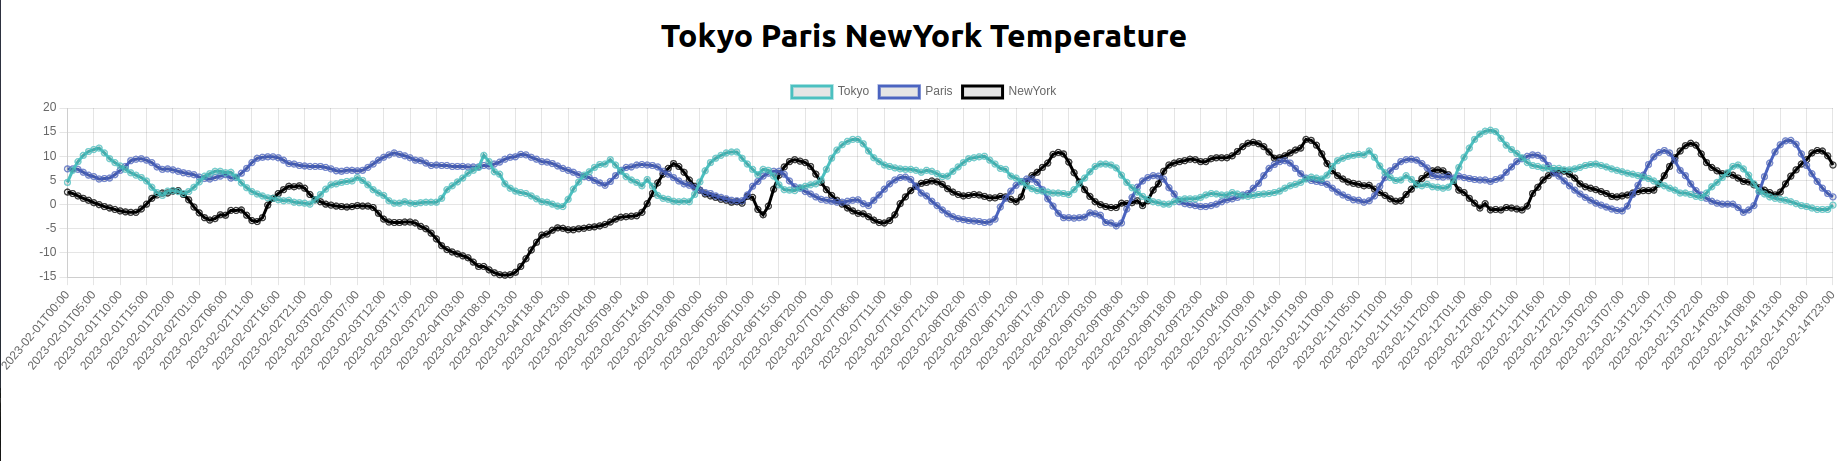
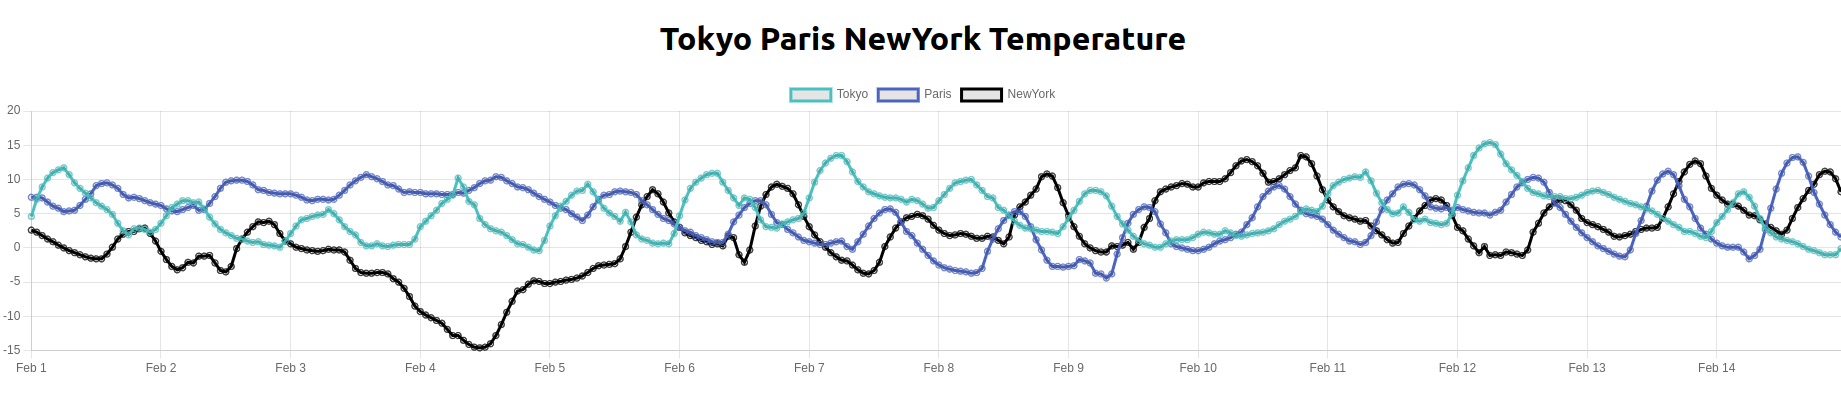
x軸を日付用に設定

diff --git a/src/components/temperatureLine.tsx b/src/components/temperatureLine.tsx
@@ -2,15 +2,18 @@ import React from "react"
 import { Line } from "react-chartjs-2"
 import {
   Chart as ChartJS,
-  CategoryScale,
+  TimeScale,
   LinearScale,
   PointElement,
   LineElement,
   Title,
   Tooltip,
   Legend,
+  ChartOptions,
 } from "chart.js"
-ChartJS.register(CategoryScale, LinearScale, PointElement, LineElement, Title, Tooltip, Legend)
+import "chartjs-adapter-date-fns"
+
+ChartJS.register(TimeScale, LinearScale, PointElement, LineElement, Title, Tooltip, Legend)
 import { TResponse } from "../weatherApi/fetchWeather"
 
 type TProps = {
@@ -43,8 +46,16 @@ const TemperatureLine = (props: TProps) => {
     ],
   }
 
-  const options = {
+  const options: ChartOptions<"line"> = {
     maintainAspectRatio: false,
+    scales: {
+      x: {
+        type: "time" as const,
+        time: {
+          unit: "day",
+        },
+      },
+    },
   }
 
   return (
